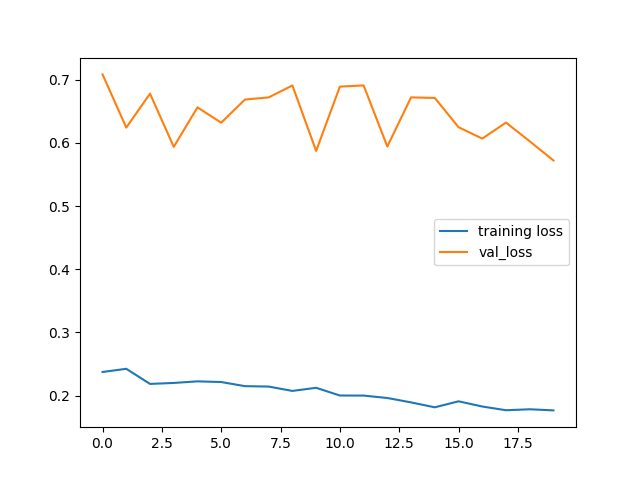
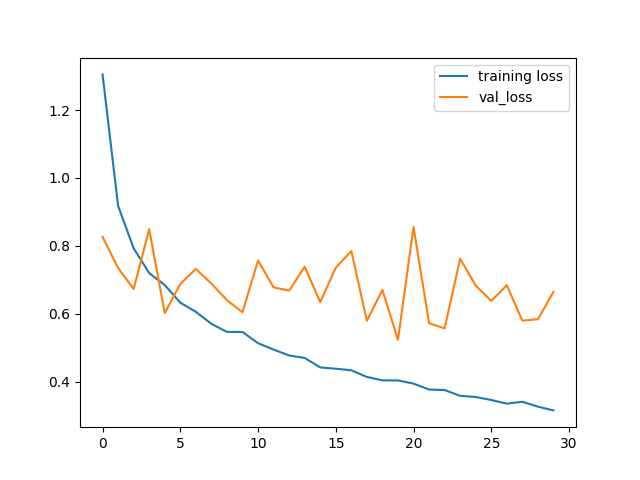
update

diff --git a/main.py b/main.py
@@ -6,7 +6,7 @@ import B.Task_B as B
 # Pn = A.download_Pn_data()
 # Pa = B.download_Pa_data()
 
-# load and split the data from dataset folder use the load_data function in task_A
+# load and split the data from dataset folder use the load_data function
 Pn_path = 'AMLS_23-24_SN23187901/dataset/pneumoniamnist.npz'
 Pn, Pn_train, Pn_val, Pn_test, Pn_train_labels, Pn_val_labels, Pn_test_labels = A.load_data(Pn_path)
 Pa_path = 'AMLS_23-24_SN23187901/dataset/pathmnist.npz'
@@ -51,9 +51,7 @@ kernel = 'rbf'
 C = 5
 test_pred, test_acc= A.SVM_model(Pn_train_flat, Pn_train_labels, Pn_test_flat, Pn_test_labels, kernel, C)
 
-print(test_acc)
-pred_normal, pred_pneumonia = A.count_pneumonia(test_pred)
-
+#visualise the prediction result and use confusion matrix to analysis the result
 A.visualize_pred( Pn_test, Pn_test_labels, test_pred, 9, 'visualize')
 
 A.con_matrix(Pn_test_labels, test_pred, 'test_pred')
@@ -63,12 +61,14 @@ Pn_train_images = A.CNN_flatten(Pn_train)
 Pn_val_images = A.CNN_flatten(Pn_val)
 Pn_test_images = A.CNN_flatten(Pn_test)
 
+#set up and compile a CNN model
 Pn_CNN_model = A.CNN_model()
 Pn_CNN_model.compile(optimizer='adam', loss='sparse_categorical_crossentropy', metrics=['accuracy'])
 
 # Pn_CNN_val = Pn_CNN_model.fit(Pn_train_images, Pn_train_labels, steps_per_epoch=235 ,epochs=20, validation_data=(Pn_val_images, Pn_val_labels), validation_steps=30)
 # A.CNN_result(Pn_CNN_val)
-Pn_CNN_test = Pn_CNN_model.fit(Pn_train_images, Pn_train_labels, steps_per_epoch=200 ,epochs=20, validation_data=(Pn_test_images, Pn_test_labels), validation_steps=20)
+Pn_CNN_test = Pn_CNN_model.fit(Pn_train_images, Pn_train_labels, steps_per_epoch=147 ,epochs=30, validation_data=(Pn_test_images, Pn_test_labels), validation_steps=19, batch_size = 32 )
+#show the loss and accuracy
 A.CNN_result(Pn_CNN_test)
 
 #Flatten Random Forest
@@ -76,22 +76,24 @@ Pa_train_flat = B.RF_flatten(Pa_train)
 Pa_val_flat = B.RF_flatten(Pa_val)
 Pa_test_flat = B.RF_flatten(Pa_test)
 
-RF_val_pred, RF_val_acc = B.RF_model(Pa_train_flat, Pa_train_labels, Pa_val_flat, Pa_val_labels)
+#set up Random Forest Model
 RF_test_pred, RF_test_acc = B.RF_model(Pa_train_flat, Pa_train_labels, Pa_test_flat, Pa_test_labels)
 
-B.con_matrix(Pa_val_labels, RF_val_pred, 'RF_confusion_matrix')
+#use confusion matrix to analysis the result
 B.con_matrix(Pa_test_labels, RF_test_pred, 'RF_confusion_matrix')
 
-#CNN model
+#CNN model for PathMNIST
 Pa_train_images = B.CNN_flatten(Pa_train)
 Pa_val_images = B.CNN_flatten(Pa_val)
 Pa_test_images = B.CNN_flatten(Pa_test)
 
+#set up and compile a CNN model
 Pa_CNN_model = B.CNN_model()
 Pa_CNN_model.compile(optimizer='adam', loss='sparse_categorical_crossentropy', metrics=['accuracy'])
 
-val_history = Pa_CNN_model.fit(Pa_train_images, Pa_train_labels, steps_per_epoch=200 ,epochs=50, validation_data=(Pa_val_images, Pa_val_labels), validation_steps=20)
-B.CNN_result(val_history,'validation')
+# val_history = Pa_CNN_model.fit(Pa_train_images, Pa_train_labels, steps_per_epoch=1000 ,epochs=30, validation_data=(Pa_val_images, Pa_val_labels), validation_steps=100, batch_size=32)
+# B.CNN_result(val_history,'validation')
 
-test_history = Pa_CNN_model.fit(Pa_train_images, Pa_train_labels, steps_per_epoch=200 ,epochs=20, validation_data=(Pa_test_images, Pa_test_labels), validation_steps=20)
+test_history = Pa_CNN_model.fit(Pa_train_images, Pa_train_labels, steps_per_epoch=1000 ,epochs=30, validation_data=(Pa_test_images, Pa_test_labels), validation_steps=100, batch_size=32)
+#show the loss and accuracy
 B.CNN_result(test_history,'test')

diff --git a/B/Task_B.py b/B/Task_B.py
@@ -1,21 +1,12 @@
 import numpy as np
-import pandas as pd 
 import matplotlib.pyplot as plt
 import seaborn as sns
-from sklearn.preprocessing import StandardScaler
 from sklearn.ensemble import RandomForestClassifier
 from sklearn.metrics import accuracy_score
 from sklearn.metrics import confusion_matrix
 from medmnist import PathMNIST
-import random
-
-
-
-import tensorflow as tf
 from keras.models import Sequential
 from keras.layers import Conv2D, MaxPooling2D, Flatten, Dense
-from keras.optimizers import RMSprop,SGD,Adam
-
 
 #PRE-PROCESSING DATA
 
